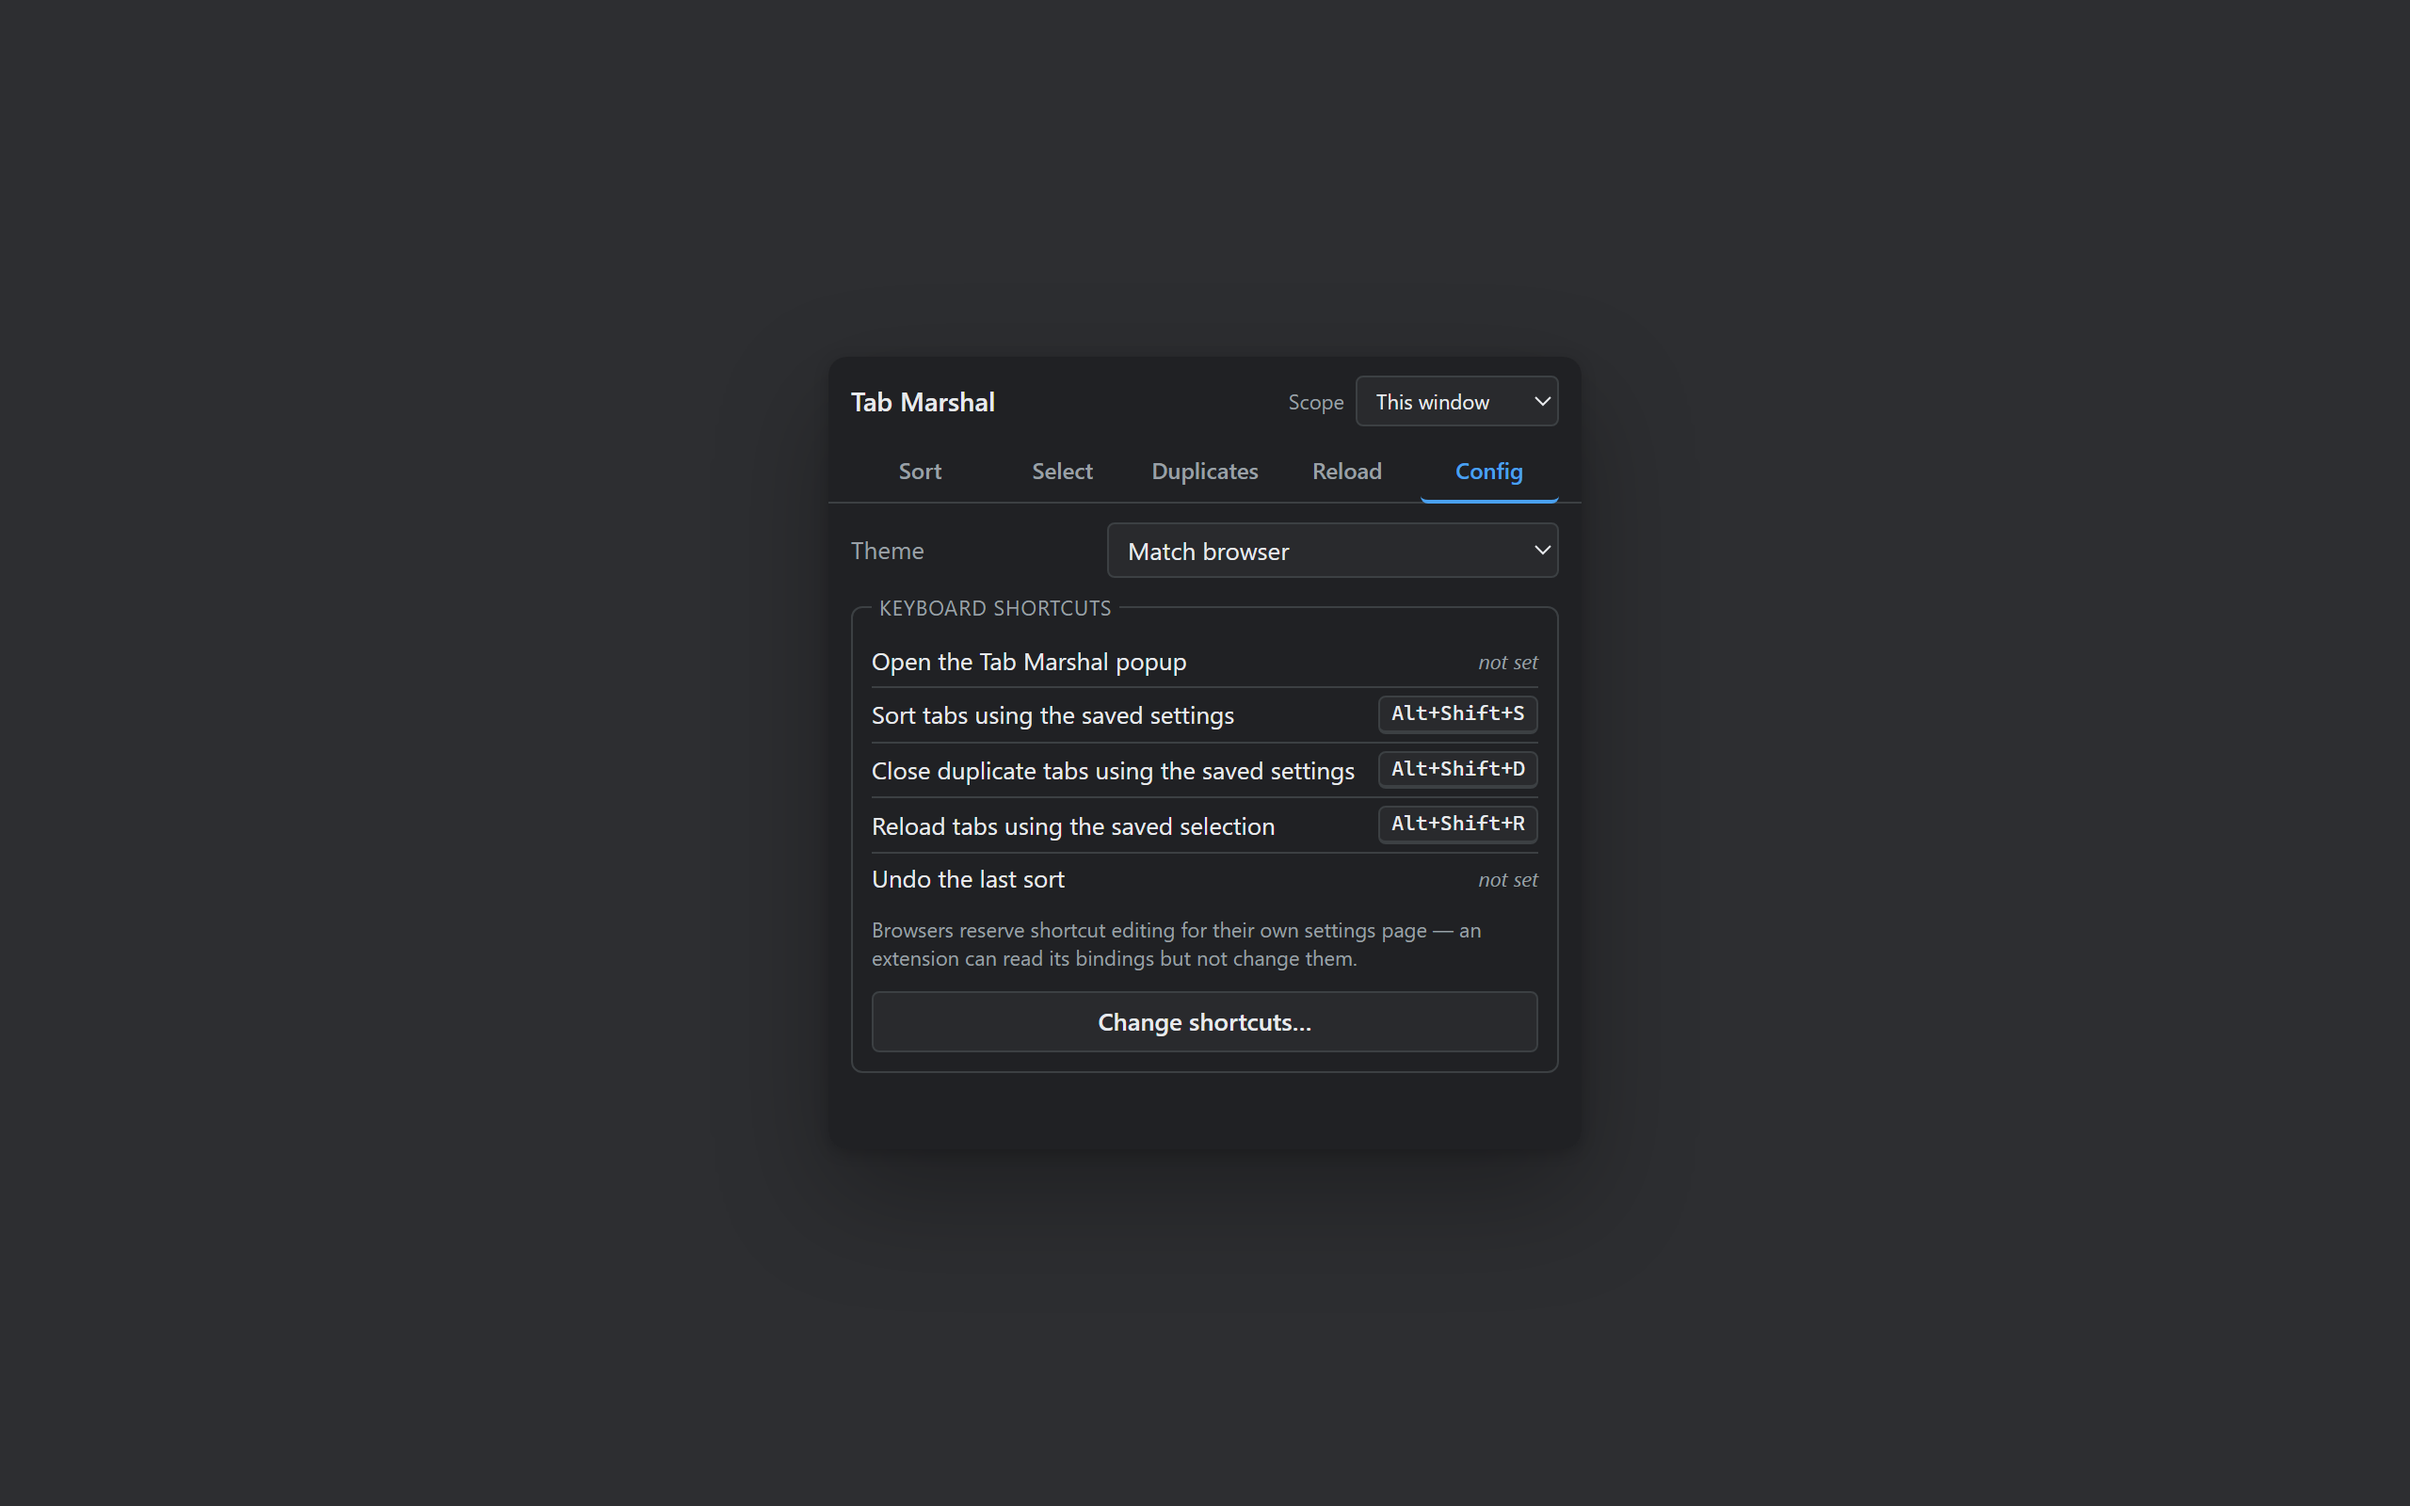
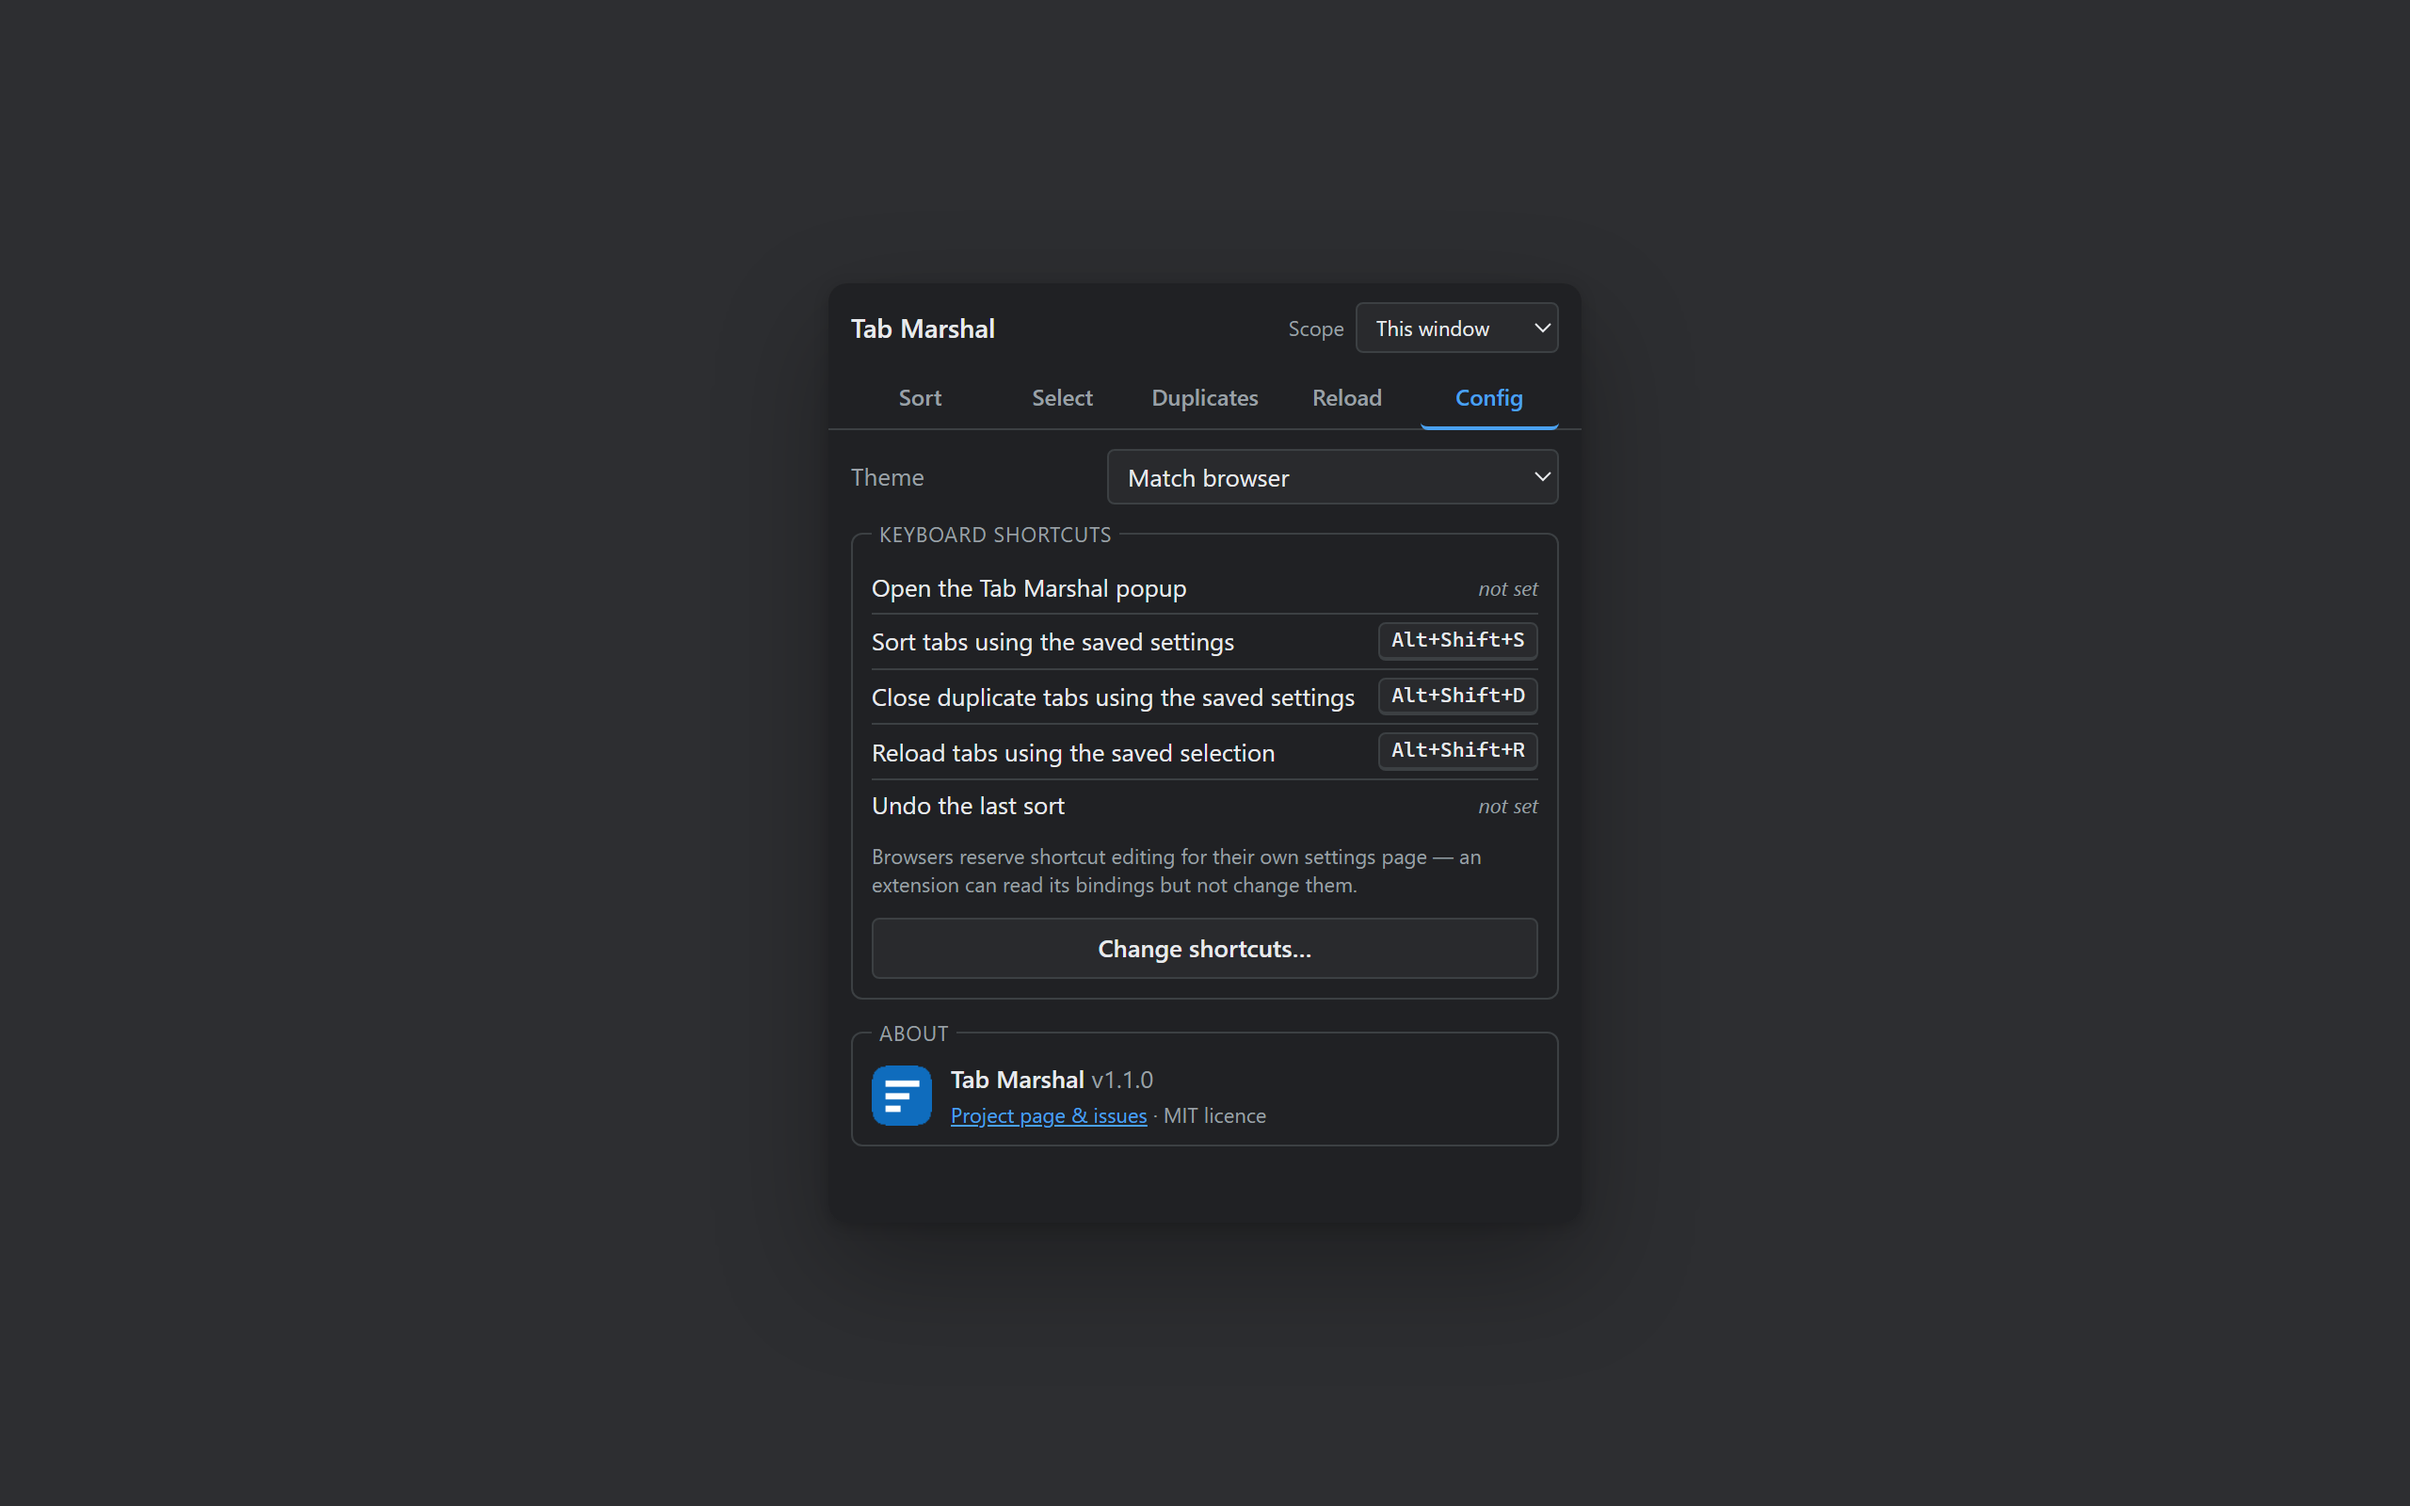
Release 1.1.0 and show the version in an About box
Bumps to 1.1.0 now that Select has landed, so the first AMO listing
carries a version that matches what it contains.

The Config tab gains an About box: icon, name, version and a link to the
project page. Name and version are read from runtime.getManifest() at
render time rather than written into the markup, so they cannot drift
from the manifest the way a hardcoded string would — which matters when
the version is the first thing a bug report quotes.

Changed region(s): [[0.3438, 0.25, 0.6562, 0.75], [0.3438, 0.2188, 0.4375, 0.2812]]

diff --git a/src/popup.js b/src/popup.js
@@ -79,6 +79,9 @@ const el = {
   shortcutList: $('shortcut-list'),
   openShortcuts: $('open-shortcuts'),
   shortcutsUrl: $('shortcuts-url'),
+  aboutName: $('about-name'),
+  aboutVersion: $('about-version'),
+  aboutHome: $('about-home'),
   status: $('status')
 };
 
@@ -105,6 +108,7 @@ async function init() {
   applyTheme(settings.theme);
   applySettingsToUi();
   wireEvents();
+  renderAbout();
   await renderShortcuts();
   el.undo.disabled = !(await hasUndo(settings));
 }
@@ -549,6 +553,15 @@ function applyTheme(choice) {
   } catch {
     /* storage unavailable; the theme still applies for this session */
   }
+}
+
+/** Name and version come from the manifest, so they can never drift from it. */
+function renderAbout() {
+  const manifest = api.runtime.getManifest();
+  el.aboutName.textContent = manifest.name;
+  el.aboutVersion.textContent = `v${manifest.version}`;
+  if (manifest.homepage_url) el.aboutHome.href = manifest.homepage_url;
+  else el.aboutHome.hidden = true;
 }
 
 const COMMAND_LABELS = { _execute_action: 'Open the Tab Marshal popup' };

diff --git a/src/popup.html b/src/popup.html
@@ -243,6 +243,22 @@
         </div>
         <p class="hint mono" id="shortcuts-url" hidden></p>
       </fieldset>
+
+      <fieldset class="group-box">
+        <legend>About</legend>
+        <div class="about">
+          <img class="about-icon" src="../icons/icon48.png" alt="" />
+          <div class="about-text">
+            <p class="about-title">
+              <span id="about-name"></span> <span id="about-version"></span>
+            </p>
+            <p class="hint about-sub">
+              <a id="about-home" target="_blank" rel="noopener noreferrer">Project page &amp; issues</a>
+              · MIT licence
+            </p>
+          </div>
+        </div>
+      </fieldset>
     </section>
 
     <footer class="status" id="status" role="status" aria-live="polite"></footer>

diff --git a/src/popup.css b/src/popup.css
@@ -633,6 +633,43 @@ button.danger:not(:disabled) {
   font-style: italic;
 }
 
+.about {
+  display: flex;
+  align-items: center;
+  gap: 10px;
+  padding-bottom: 6px;
+}
+
+.about-icon {
+  width: 32px;
+  height: 32px;
+  flex: 0 0 32px;
+  border-radius: 7px;
+}
+
+.about-text {
+  min-width: 0;
+}
+
+.about-title {
+  margin: 0 0 2px;
+  font-weight: 600;
+}
+
+#about-version {
+  color: var(--muted);
+  font-weight: 400;
+  font-variant-numeric: tabular-nums;
+}
+
+.about-sub {
+  margin: 0;
+}
+
+.about a {
+  color: var(--accent);
+}
+
 .hint.mono {
   user-select: all;
   font-family: ui-monospace, "Cascadia Mono", Consolas, monospace;

diff --git a/README.md b/README.md
@@ -250,6 +250,9 @@ The Config tab lists every command with its current binding, read live from `chr
 do. The Config tab only lists it on Firefox. Manifest commands are static, so the browser's own
 shortcuts page still shows it on Chromium — it works there too, it is just redundant.
 
+The **About** box at the bottom of the Config tab shows the running name and version, read from
+the manifest so it cannot drift, plus a link to the project page.
+
 **Bindings can only be changed on the browser's own page.** `chrome.commands` is read-only —
 extensions can see their shortcuts but not set them, so "Change shortcuts…" just opens
 `edge://extensions/shortcuts` (`chrome://…` on Chrome). If the browser refuses to let the extension

diff --git a/store/amo-listing.md b/store/amo-listing.md
@@ -90,9 +90,14 @@ statement that the add-on transmits no user data. Leave the field blank unless A
 - Support site: `https://github.com/elpapimango/tab-sorter/issues`
 - Support email: optional. Anything entered here is public.
 
-## Version notes (1.0.0)
+## Version notes (1.1.0)
 
-    First release.
+    First public release.
+
+    Sort tabs and tab groups by domain, hostname, URL, host + path, title, recency or a regular
+    expression. Select tabs in bulk and hand them to the browser's own right-click menu. Find and
+    close duplicates, or catch them as they open. Reload tabs by filter, group or all at once. Ten
+    themes, and keyboard shortcuts for everything.
 
 ## Screenshots
 
